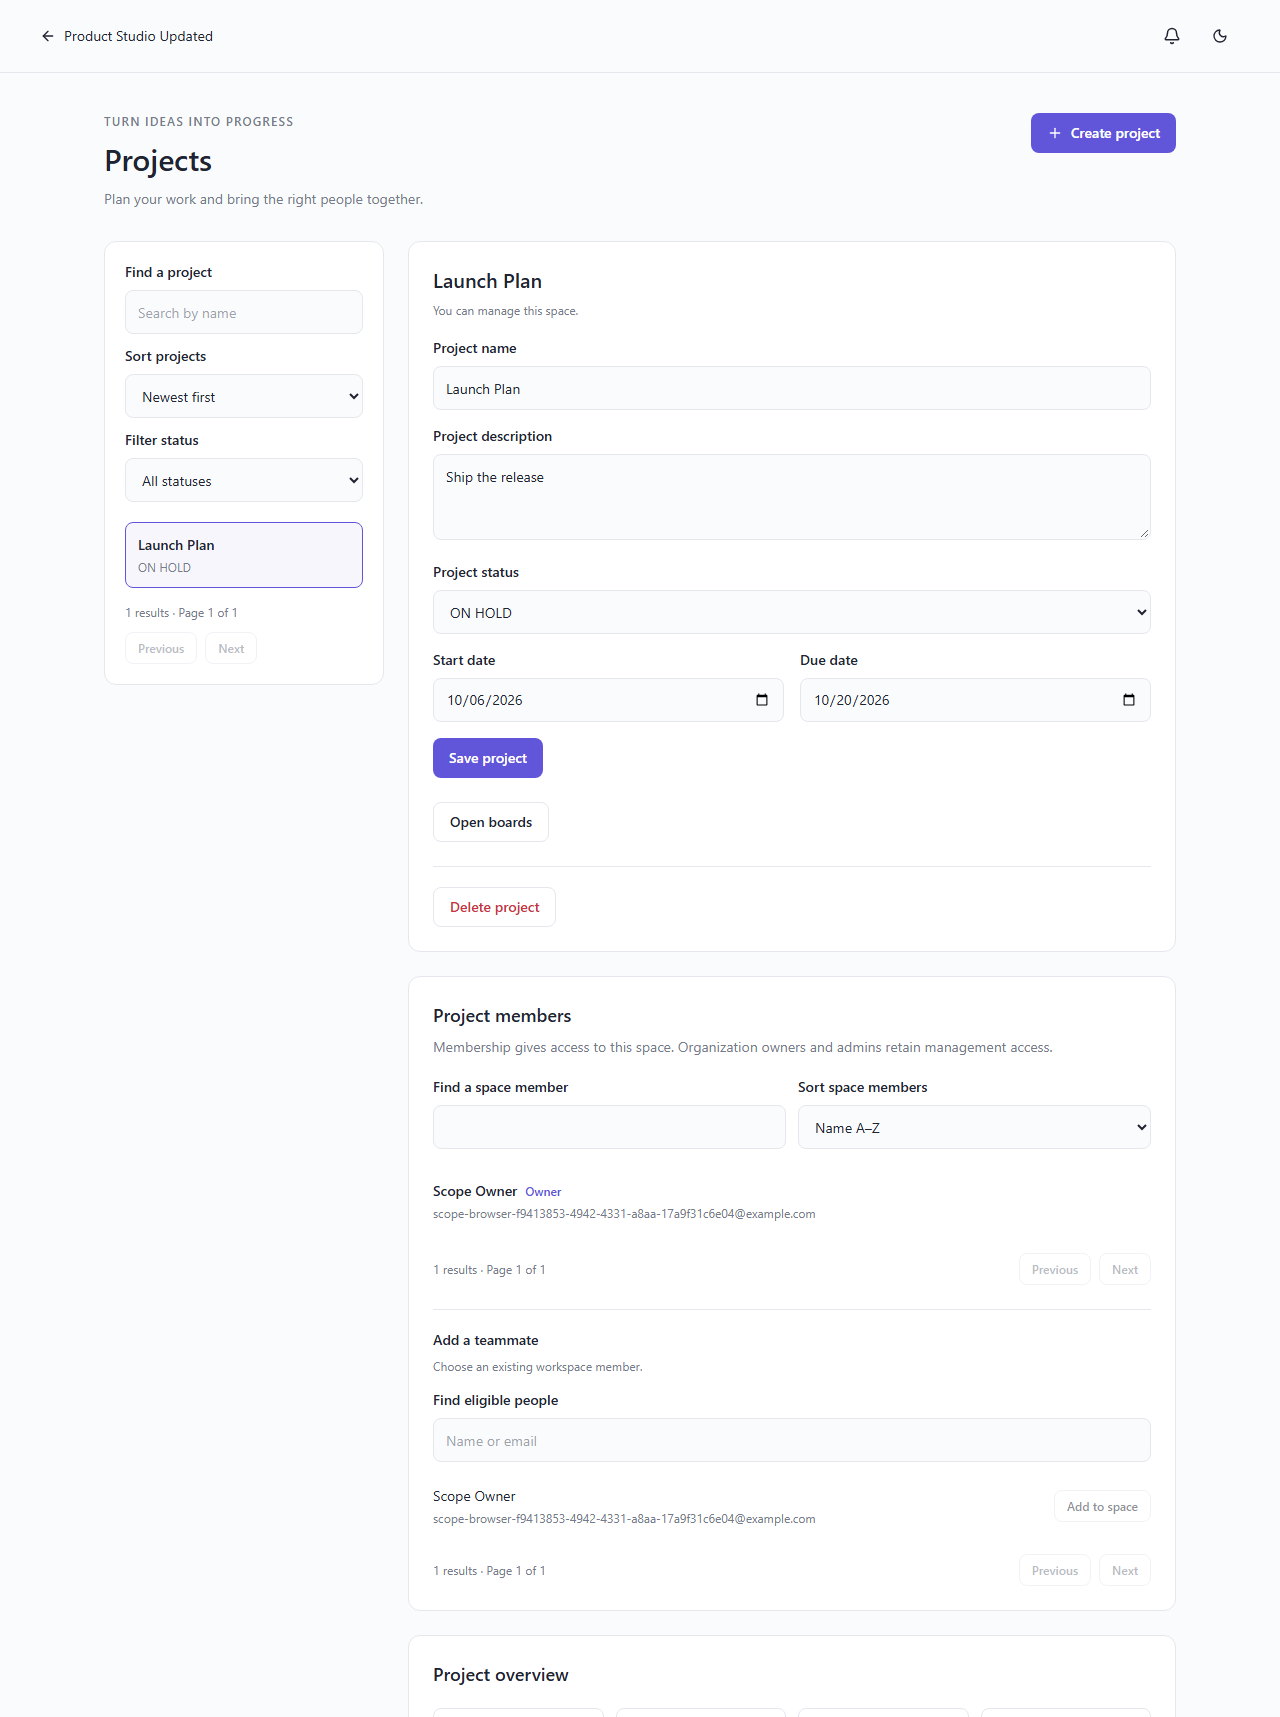
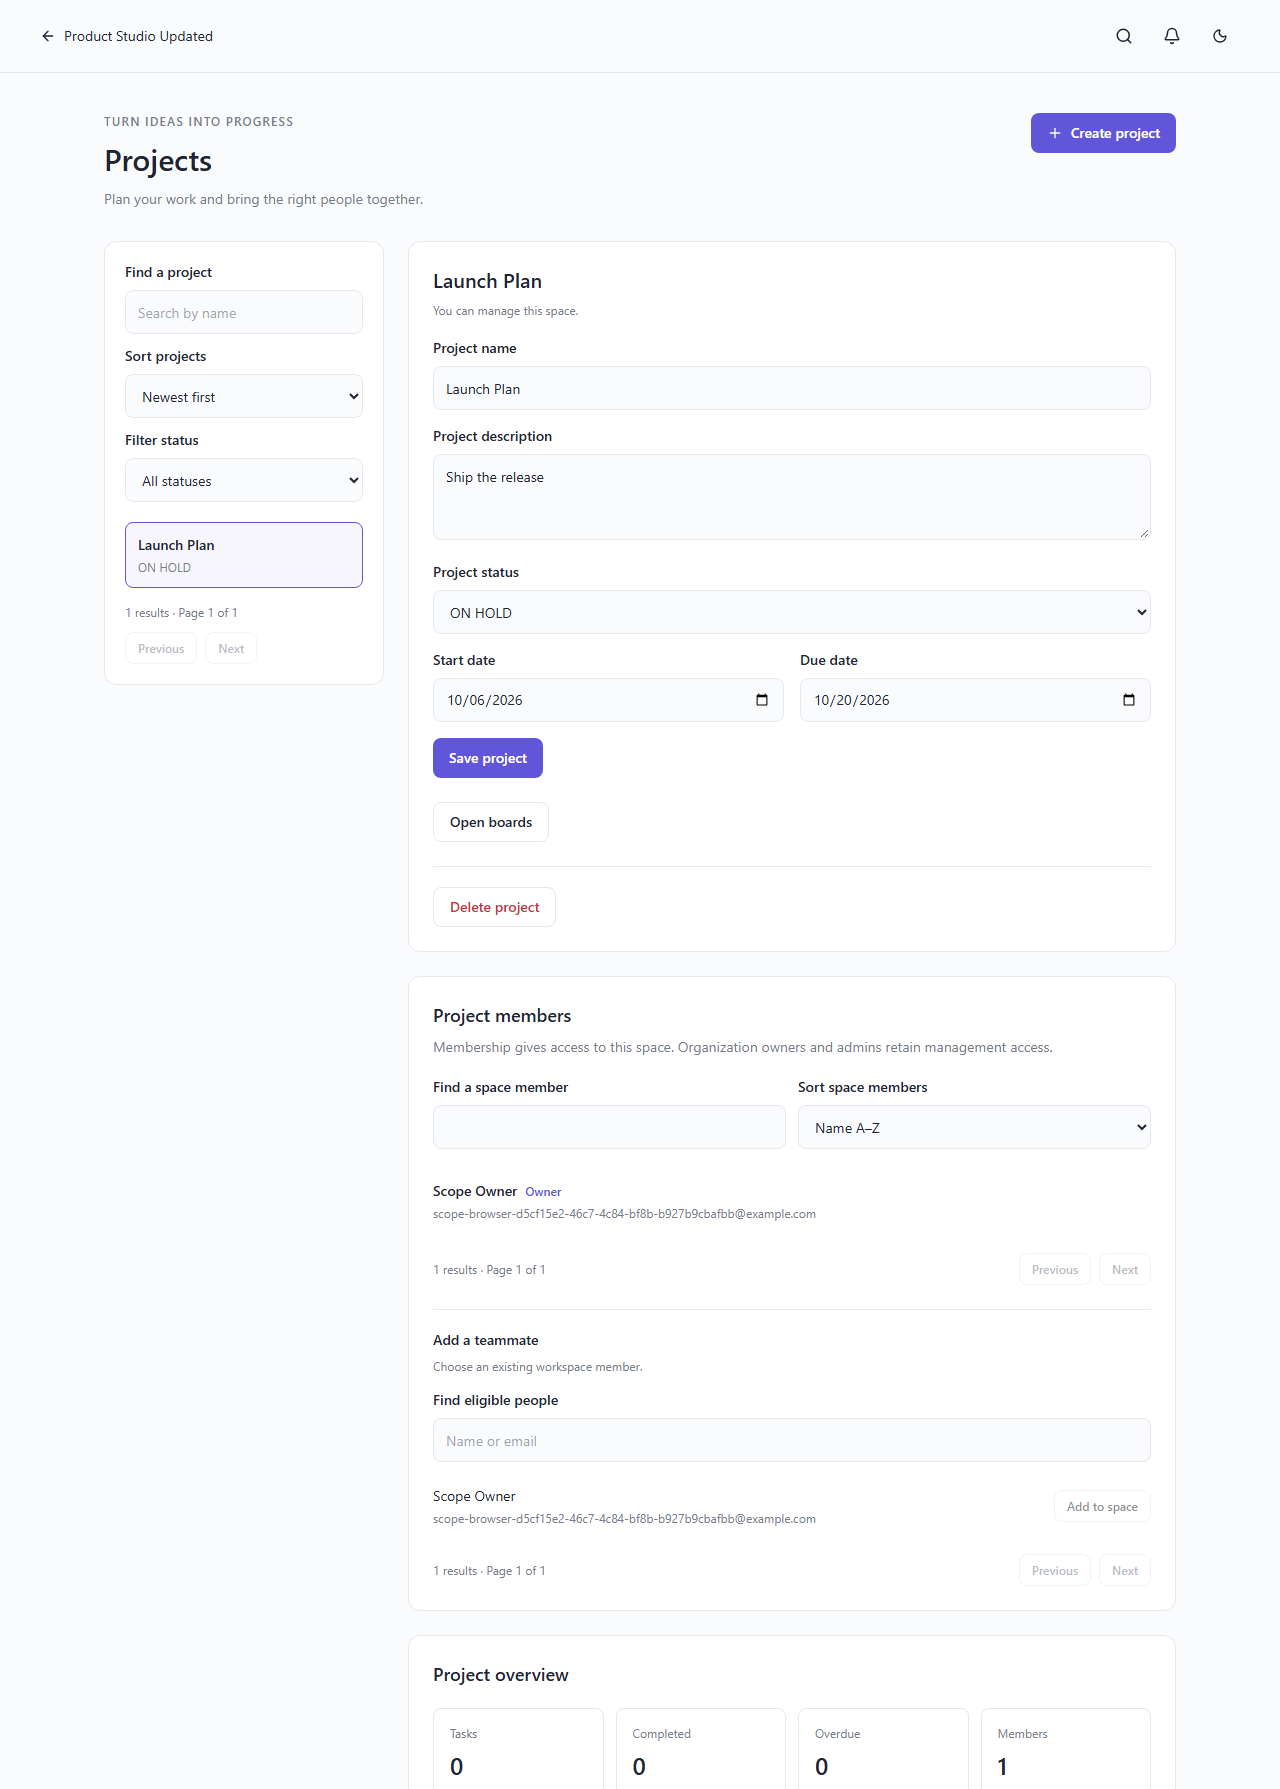
docs: record verified collaboration MVP and Docker browser evidence

diff --git a/docs/roadmap.md b/docs/roadmap.md
@@ -1,15 +1,15 @@
 # Milestones và acceptance criteria
 
-| Phase                               | Deliverable                                                                   | Kiểm tra trước khi đi tiếp                                                                       |
-| ----------------------------------- | ----------------------------------------------------------------------------- | ------------------------------------------------------------------------------------------------ |
-| 1 — Foundation (hoàn thành)         | npm monorepo, web/API, auth, DB schema, Docker, Swagger, ENV, CI              | Build/typecheck/lint; register → login → me → refresh → replay → logout; readiness services thật |
-| 2 — Organization (hoàn thành)       | CRUD + logo, membership, owner transfer, RBAC, invitation email/accept/revoke | Cross-tenant/RBAC, concurrency, SMTP và browser flow đã kiểm tra                                 |
-| 3 — Project management (hoàn thành) | Workspace/project CRUD + membership/transfer, overview                        | Private scopes, date PATCH, 2-account browser access revocation đã kiểm tra                      |
-| 4 — Kanban (hoàn thành)             | Board/column/task CRUD, assignment, labels, checklist, archive, dnd-kit       | Thứ tự bền vững, cross-board move bị chặn, optimistic rollback, concurrency tests                |
-| 5 — Realtime (hoàn thành)           | Socket.IO auth + Redis adapter, board rooms, notification, presence           | Hai browser nhận update; reconnect/gap recovery; room permission + token expiry đã kiểm tra      |
-| 6 — Collaboration / MVP done        | Comments/mentions, activity, attachments, search, inbox, personal tasks       | Flow mục 34 chạy end-to-end; mention notifications, download permission, MIME/size checks        |
-| 7 — Queue hardening                 | Worker deployment, retry/idempotency, email/maintenance/file jobs             | Duplicate delivery không duplicate side effect; retries/failure observability                    |
-| 8 — AI                              | Provider abstraction, summary/overdue, meeting-note suggestions               | Validated JSON, context tenant scoped, confirmation trước task creation                          |
-| 9 — Production                      | Staging/prod deploy, TLS, monitoring, backups, security review                | Restore rehearsal, migration rollback plan, load test, deployment smoke test                     |
+| Phase                                | Deliverable                                                                   | Kiểm tra trước khi đi tiếp                                                                       |
+| ------------------------------------ | ----------------------------------------------------------------------------- | ------------------------------------------------------------------------------------------------ |
+| 1 — Foundation (hoàn thành)          | npm monorepo, web/API, auth, DB schema, Docker, Swagger, ENV, CI              | Build/typecheck/lint; register → login → me → refresh → replay → logout; readiness services thật |
+| 2 — Organization (hoàn thành)        | CRUD + logo, membership, owner transfer, RBAC, invitation email/accept/revoke | Cross-tenant/RBAC, concurrency, SMTP và browser flow đã kiểm tra                                 |
+| 3 — Project management (hoàn thành)  | Workspace/project CRUD + membership/transfer, overview                        | Private scopes, date PATCH, 2-account browser access revocation đã kiểm tra                      |
+| 4 — Kanban (hoàn thành)              | Board/column/task CRUD, assignment, labels, checklist, archive, dnd-kit       | Thứ tự bền vững, cross-board move bị chặn, optimistic rollback, concurrency tests                |
+| 5 — Realtime (hoàn thành)            | Socket.IO auth + Redis adapter, board rooms, notification, presence           | Hai browser nhận update; reconnect/gap recovery; room permission + token expiry đã kiểm tra      |
+| 6 — Collaboration / MVP (hoàn thành) | Comments/mentions, activity, attachments, search, inbox, personal tasks       | Flow mục 34 chạy end-to-end; mention notifications, download permission, MIME/size checks đạt    |
+| 7 — Queue hardening                  | Worker deployment, retry/idempotency, email/maintenance/file jobs             | Duplicate delivery không duplicate side effect; retries/failure observability                    |
+| 8 — AI                               | Provider abstraction, summary/overdue, meeting-note suggestions               | Validated JSON, context tenant scoped, confirmation trước task creation                          |
+| 9 — Production                       | Staging/prod deploy, TLS, monitoring, backups, security review                | Restore rehearsal, migration rollback plan, load test, deployment smoke test                     |
 
 Mỗi phase làm theo module, có migration khi thay đổi dữ liệu và giữ toàn bộ checks trước đó xanh. Phase 1 không expose endpoint CRUD cho domain còn lại chỉ vì schema đã có entity. Không tự động publish/deploy khi chưa có môi trường và cấu hình thật.

diff --git a/docs/phase6.md b/docs/phase6.md
@@ -1,0 +1,17 @@
+# Phase 6 — Collaboration MVP
+
+Hoàn thành ngày 06/10/2026. 24 unit/security tests, 65 HTTP integration tests và 9 browser flows đạt. Strict typecheck/lint/format và production builds đạt. API/web/migrator/worker được rebuild, chạy Docker và đạt lại toàn bộ browser suite.
+
+Comments: mọi project member còn đủ parent memberships có thể bình luận, kể cả không được assigned. Author sửa comment; author/project manager được xóa. Comment version tách khỏi task version để comments không gây conflict với task editing; stale edits trả 409. Foreign task/comment IDs và forged author IDs bị chặn. Archived tasks chỉ đọc comments. Text giới hạn 10.000 ký tự, tối đa 1.000 comments/task và 20 mentions/comment.
+
+Mention picker chèn `@[Display name](user UUID)`, server chỉ chấp nhận current project members còn workspace/organization membership. Parser cũng nhận full `@email` hoặc tên một từ duy nhất như `@John`; ambiguous names yêu cầu chọn member/full email. Mentions được deduplicate và edits chỉ báo người mới được thêm. Mention alerts và comment alerts của creator/assignees nằm trong transaction với comment; actor không tự nhận, người đã mất scope không được tạo notification. Browser xác nhận live comment/edit/delete, moderation và mention notification.
+
+Activity lưu cùng transaction với board/task/comment/attachment actions; failed mutations không để lại lịch sử. Task moves lưu from/to status và assignment IDs. Xóa task giữ history ở project, bỏ FK task đã xóa và giữ identifier trong metadata. Project/task feeds có pagination, public actor profile và current scope checks. Structural deletes không tự xóa retained project history.
+
+Attachments: PNG/JPEG/WebP/PDF/DOCX/ZIP, tối đa 10 MiB/file và 20 files/task. Images được decode với giới hạn pixels; PDF kiểm tra header/trailer; ZIP kiểm tra cấu trúc, entry limits, tên đường dẫn, encryption và declared expansion; DOCX yêu cầu package markers và từ chối macros. Đây không phải malware scanner. Storage không public; API kiểm tra quyền trước khi cấp URL 5 phút với forced attachment disposition. URL đã cấp còn hợp lệ tới expiry. Uploader, task creator hoặc manager được xóa; phải remove attachments trước khi delete task.
+
+Upload reservation bảo vệ khoảng giữa object write và metadata commit. Metadata rollback dọn object; remove tạo durable cleanup record cùng transaction. Cleanup thử ngay, giữ failure và retry time khi storage lỗi. Background retries/pump được hoàn thiện ở Phase 7. Các quyết định dựa trên [yauzl](https://github.com/thejoshwolfe/yauzl) và [S3 GetObject response overrides](https://docs.aws.amazon.com/AmazonS3/latest/API/API_GetObject.html).
+
+Global search dùng PostgreSQL case-insensitive matching với pagination theo tasks/projects/members/comments. Tasks/comments chỉ trong project còn accessible; member results giới hạn shared organizations. My Tasks kiểm tra lại parent memberships ngay cả khi có assignment cũ. Dashboard lấy số liệu thật, không mock counts; completed/archive tasks không làm sai overdue counts. Simple completion/priority charts, recent project progress và activity hỗ trợ overview.
+
+MVP mục 34 đã có luồng register → organization/workspace/project/board → assign/move tasks → realtime update → comment → notification. AI và production deployment tiếp tục sau queue hardening.

diff --git a/docs/verification.md b/docs/verification.md
@@ -1,6 +1,6 @@
-# Phase 5 verification — 06/10/2026
+# Phase 6 verification — 06/10/2026
 
-Đã hoàn thành Phase 1–5 theo Requirements.md. Realtime, Redis presence và transactional notifications đã được kiểm tra. Phase 6 collaboration đang triển khai; chưa hoàn thành toàn bộ MVP ở mục 34.
+Đã hoàn thành Phase 1–6 theo Requirements.md và luồng MVP ở mục 34. Phase 7 queue hardening tiếp tục; AI và production deployment chưa hoàn thành.
 
 | Check                       | Kết quả                                                                                           |
 | --------------------------- | ------------------------------------------------------------------------------------------------- |
@@ -9,8 +9,8 @@
 | TypeScript strict typecheck | Pass cho contracts, API, web                                                                      |
 | ESLint / Prettier           | Pass                                                                                              |
 | Production build            | Pass cho Next.js và NestJS                                                                        |
-| Unit/security tests         | 16 pass: auth, RBAC, scope policy, PATCH omission, encryption and Kanban contracts                |
-| HTTP integration tests      | 52 verified on real PostgreSQL/Redis/MinIO/Mailpit (51-case suite + added Redis recovery case)    |
+| Unit/security tests         | 24 pass: auth, RBAC, contracts, mention parsing, encryption and attachment content validation     |
+| HTTP integration tests      | 65 pass on real PostgreSQL/Redis/MinIO/Mailpit                                                    |
 | Browser tests               | 9 verified on local builds and Linux Docker containers                                            |
 | Docker targets              | API, web, migrator, worker và source-built MinIO build thành công                                 |
 | Compose runtime             | API/PostgreSQL/Redis/MinIO/Mailpit healthy; web/worker chạy; init exit 0                          |
@@ -30,3 +30,5 @@ Phase 3 verifies workspace/project CRUD, private memberships, persisted date inv
 Phase 4 adds scoped board/column/task CRUD, multiple assignees, project labels, checklist versions, archive/restore and transactional fractional ranking. Browser verification covers pointer and keyboard moves, empty columns, persistent ordering, optimistic state before a held response, 409 rollback and mobile layout. API tests include concurrent moves/edits/reorders and private scope boundaries. Docker API/web/migrator/worker and the browser suite are verified at this milestone.
 
 Phase 5 verifies authenticated Socket.IO, Redis fanout between API replicas, post-commit board events, immediate membership revocation, token expiry, distributed presence leases/caps, persisted recipient-scoped notifications and web reconnect/inbox/deep-link flows. See [Phase 5](phase5.md) for delivery limits and exact verification scope.
+
+Phase 6 verifies scoped comments/mentions and version conflicts, transactional activity retention/rollback, private attachment upload/download/deletion/compensation, global search privacy, assignment scope and actual dashboard aggregates. The full browser suite passes on local production builds and Linux Docker containers. See [Phase 6](phase6.md).

diff --git a/README.md b/README.md
@@ -2,7 +2,7 @@
 
 A team collaboration platform bringing projects, Kanban boards, conversations, and a future AI assistant into one calm workspace. Built as a fullstack engineering portfolio with explicit tenant boundaries and production deployment in mind.
 
-**Current delivery: Phase 5 — Realtime; Phase 6 in progress.** Secure accounts/sessions, organizations/logos, invitations and roles, private workspaces/projects, scoped membership, ownership transfer, Kanban tasks, live board updates, distributed presence and personal notifications. AI follows the collaboration MVP.
+**Current delivery: Phase 6 — Collaboration MVP; Phase 7 follows.** Secure accounts/sessions, organizations/logos, invitations and roles, private workspaces/projects, Kanban tasks, live board updates, distributed presence, notifications, comments/mentions, private attachments, activity, global search and a dashboard backed by project data.
 
 ## Features shipped
 
@@ -16,6 +16,8 @@ A team collaboration platform bringing projects, Kanban boards, conversations, a
 - Real project overview with task/completed/overdue/member counts and recent activity; responsive workspace/project settings and membership screens.
 - Scoped boards and custom columns; task CRUD, priority/due dates, multiple assignees, project labels, checklists and archive/restore. Pointer and keyboard drag/drop with optimistic rollback, task versions and board revisions prevent lost updates.
 - JWT-authenticated Socket.IO with Redis fanout across API replicas, immediate board access revocation, expiring presence leases and reconnect recovery. Transactional task notifications with a live unread badge, paginated inbox, read controls and task deep links.
+- Live task comments with scoped member mentions, versioned edits and moderation; transactional task/project activity history. Private 10 MiB attachments with content validation, download authorization and durable object cleanup records.
+- Global search across accessible tasks, projects, organization members and comments. Assigned task filters and actual dashboard counts, recent projects/activity, task completion and priority charts.
 - Single-use, seven-day invitations with matching-email acceptance. Durable encrypted delivery outbox, BullMQ retry worker and local Mailpit SMTP capture.
 - PostgreSQL + Prisma 7 schema for the complete planned domain, checked-in initial migration.
 - Docker Compose PostgreSQL, Redis, private MinIO bucket, Mailpit, migration job, frontend, backend and worker containers. Random local secrets generated by setup.
